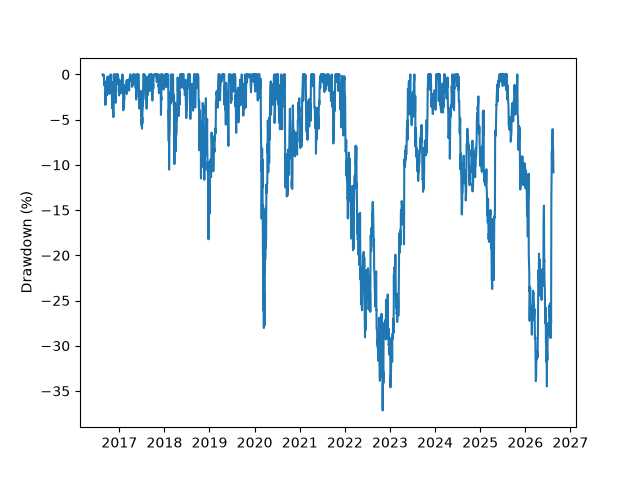
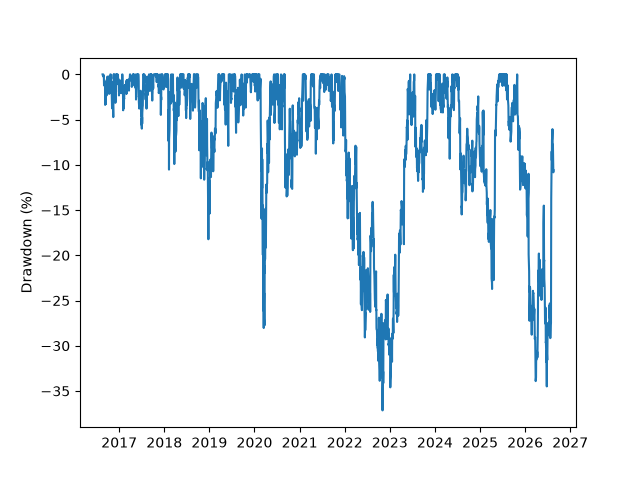
feat: markowitz

diff --git a/portafolio.py b/portafolio.py
@@ -1,0 +1,65 @@
+import numpy as np
+import yfinance as yf
+import matplotlib.pyplot as plt
+precios = yf.download(["MSFT", "VOO", "BTC-USD", "ACAD", "GLD"], period="10y")["Close"]
+pesos = np.array([0.2, 0.2, 0.2, 0.2, 0.2])
+precios_alineados = precios.dropna()
+retornos_log = np.log(precios_alineados / precios_alineados.shift(1))
+covarianza = retornos_log.cov() * 252
+print(covarianza)
+volatilidad_d = retornos_log.std()
+volatilidad_a = volatilidad_d * np.sqrt(252)
+print(volatilidad_a)
+pesos_ponderado = pesos @ volatilidad_a
+riesgo_max = pesos_ponderado
+print(riesgo_max)
+# lo comrpobe a mano el riesgo max
+var_port = pesos @ covarianza @ pesos
+vol_port = np.sqrt(var_port)
+print(vol_port)
+rendimientos_esperados_a = retornos_log.mean() * 252
+print(rendimientos_esperados_a)
+rendimiento_equal = pesos @ rendimientos_esperados_a
+lista_vol = []
+lista_rendimiento = []
+lista_pesos = []
+lista_sharpe_p = []
+rf = 0.04
+np.random.seed(42)
+for _ in range(5000):
+    pesos_random = np.random.random(5)
+    w = pesos_random / np.sum(pesos_random)
+    retorno_p = w @ rendimientos_esperados_a
+    vol_p = np.sqrt(w @ covarianza @ w)
+    lista_vol.append(vol_p)
+    lista_rendimiento.append(retorno_p)
+    lista_pesos.append(w)
+    sharpe = (retorno_p - rf) / vol_p
+    lista_sharpe_p.append(sharpe)
+print("---Minima varianza---")
+posicion_min = np.argmin(lista_vol)
+print(lista_pesos[posicion_min])
+vol_min = (lista_vol[posicion_min])
+print("La vol minima es:", vol_min)
+retorno_min = (lista_rendimiento[posicion_min])
+print("El retorno min es:", retorno_min)
+sharpe_min = lista_sharpe_p[posicion_min]
+print("El sharpe es:", sharpe_min)
+print("---Sharpe portfolio---")
+posicion_sharpe = np.argmax(lista_sharpe_p)
+vol_s = (lista_vol[posicion_sharpe])
+print("La vol del sharpe portfolio es:", vol_s)
+retorno_s = (lista_rendimiento[posicion_sharpe])
+print("El rendimiento del sharpe portfolio es:", retorno_s)
+max_sharpe = (lista_sharpe_p[posicion_sharpe])
+print("El mejor sharpe es:", max_sharpe)
+print("Los pesos del sharpe portfolio son:", (lista_pesos[posicion_sharpe]))
+plt.scatter(lista_vol, lista_rendimiento, s=5, alpha=0.3)
+plt.scatter(vol_port, rendimiento_equal, color="red", s=100)
+plt.scatter(vol_min, retorno_min, color="green", s=100)
+plt.scatter(lista_vol[posicion_sharpe], lista_rendimiento[posicion_sharpe], color="orange", s=100)
+plt.ylabel("Rendimiento esperado")
+plt.xlabel("Volatilidad anual")
+plt.title("Markowitz")
+plt.savefig("Frontera.png")
+plt.show()

diff --git a/normalidad.py b/normalidad.py
@@ -1,0 +1,43 @@
+import numpy as np
+import yfinance as yf
+import pandas as pd
+import matplotlib.pyplot as plt
+from capstone_v2 import calcular_retorno_log
+from scipy import stats
+precios = yf.download(["MSFT", "VOO", "BTC-USD", "ACAD", "GLD"], period="10y")["Close"]
+print("---DIARIOS---")
+retornos = calcular_retorno_log(precios)
+for ticker in retornos.columns:
+    serie = retornos[ticker].dropna()
+    asimetria = stats.skew(serie)
+    curtosis = stats.kurtosis(serie)
+    jb_stat, p_valor = stats.jarque_bera(serie)
+    print(f"{ticker}: skew={round(asimetria, 4)}  curtosis={round(curtosis, 4)}  p={p_valor}")
+print("---MENSUALES---")
+retornos_m = retornos.resample("ME").sum()
+for ticker in retornos_m.columns:
+    serie = retornos_m[ticker].dropna()
+    asimetria = stats.skew(serie)
+    curtosis = stats.kurtosis(serie)
+    jb_stat, p_valor = stats.jarque_bera(serie)
+    print(f"{ticker}: skew={round(asimetria, 4)}  curtosis={round(curtosis, 4)}  p={p_valor}")
+acad = retornos["ACAD"].dropna()
+print("con todo:", stats.kurtosis(acad))
+print("sin el peor día:", stats.kurtosis(acad.drop(acad.idxmin())))
+plt.figure()
+stats.probplot(retornos["VOO"].dropna(), dist="norm", plot=plt)
+plt.title("QQ-plot: VOO vs Normal")
+plt.savefig("qq_voo.png")
+plt.figure()
+stats.probplot(retornos["ACAD"].dropna(), dist="norm", plot=plt)
+plt.title("QQ-plot: ACAD vs Normal")
+plt.savefig("qq_acad.png")
+plt.figure()
+stats.probplot(retornos_m["VOO"].dropna(), dist="norm", plot=plt)
+plt.title("QQ-plot_mensual: VOO vs Normal")
+plt.savefig("qq_voo_mensual.png")
+plt.figure()
+stats.probplot(retornos_m["ACAD"].dropna(), dist="norm", plot=plt)
+plt.title("QQ-plot_mensual: ACAD vs Normal")
+plt.savefig("qq_acad_mensual.png")
+plt.show()

diff --git a/nuew.py b/nuew.py
@@ -1,0 +1,14 @@
+import yfinance as yf
+import numpy as np
+import matplotlib.pyplot as plt
+datos = yf.download("MSFT", period="10y")
+precios = datos["Close"]["MSFT"]
+print("El type es:", type(precios))
+print(datos.tail())
+retornos_log = np.log(precios / precios.shift(1))
+print("El retorno logaritmico diario es:", retornos_log.tail())
+print("El retorno logaritmico de los 10 años es:", retornos_log.sum())
+rendimiento_1 = np.exp(retornos_log.sum()) - 1
+rendimiento = np.exp(retornos_log.sum())
+print(rendimiento)
+print("El retnorno porcentual es de:", rendimiento_1 * 100)

diff --git a/prueba.py b/prueba.py
@@ -1,0 +1,7 @@
+import yfinance as yf
+import numpy as np
+import matplotlib.pyplot as plt
+datos = yf.download("MSFT", period="10y")
+precios = datos["Close"]["MSFT"]
+print("El type es:", type(precios))
+print(datos.tail())
